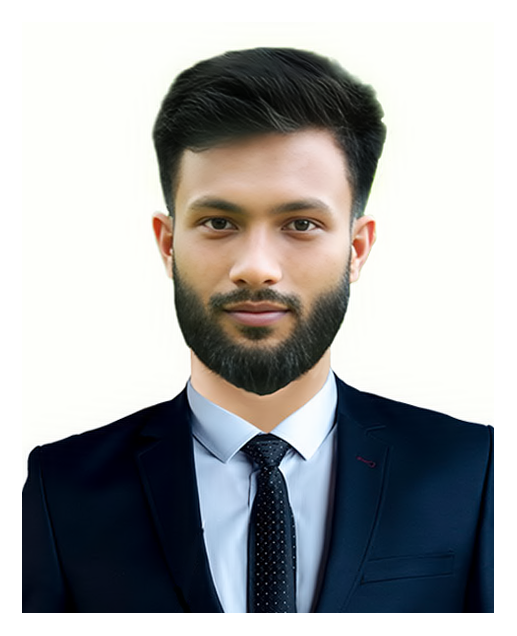
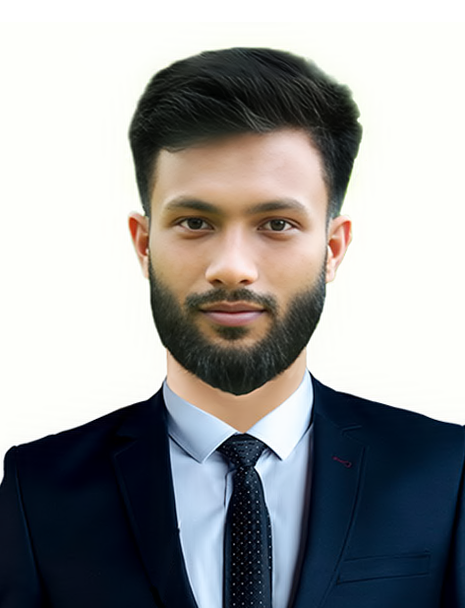
change about image

diff --git a/src/components/about/About.jsx b/src/components/about/About.jsx
@@ -40,13 +40,13 @@ const About = () => {
             </div>
           </div>
           <div className='about-image'>
-            <div>
+            <div className='img_container'>
               <Image
                 className='image'
                 alt='profile image'
                 src={profile}
-                width={350}
-                height={350}
+                quality={100}
+                width={400}
               />
             </div>
           </div>

diff --git a/src/components/about/about.css b/src/components/about/about.css
@@ -25,7 +25,7 @@
 .about-image {
   display: flex;
   align-items: center;
-  justify-content: center;
+  justify-content: end;
 }
 .about-image .image{
   border-radius: 10px;
@@ -33,6 +33,14 @@
 }
 .about-image:hover .image{
   transform: scale(1.1);
+}
+.img_container{
+  width: 400px;
+  height: 400px;
+  overflow: hidden;
+  border-radius: 10px 10px 10px 10px;
+  transition-duration: 2s;
+  box-shadow: 0px 0px 15px -1px #15FC08;
 }
 
 
